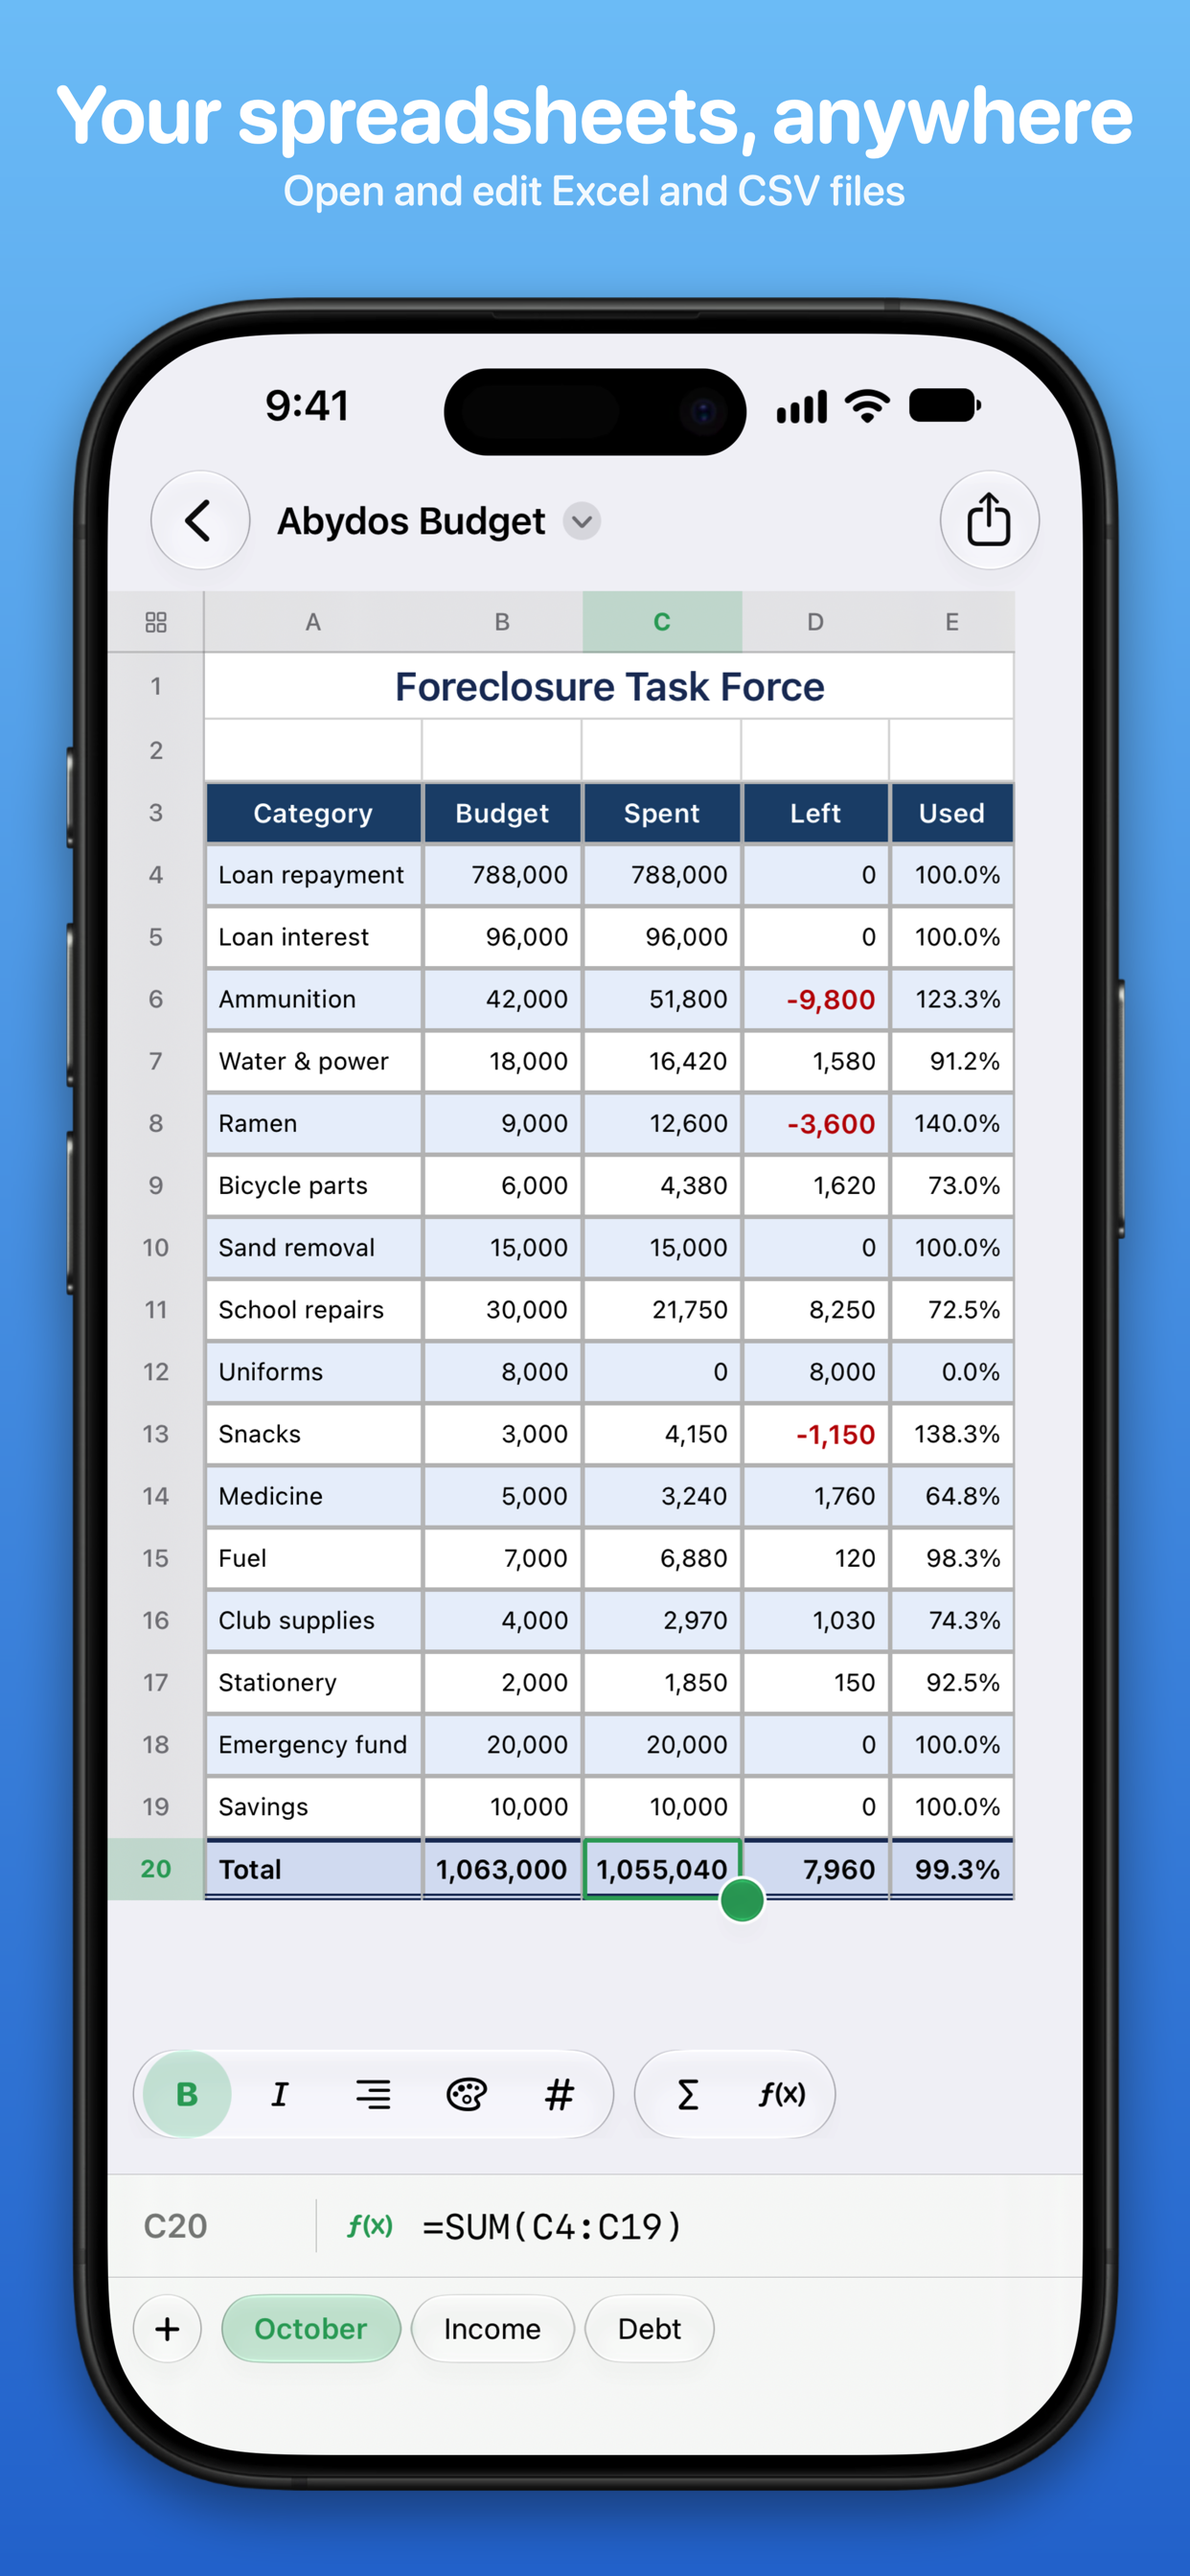
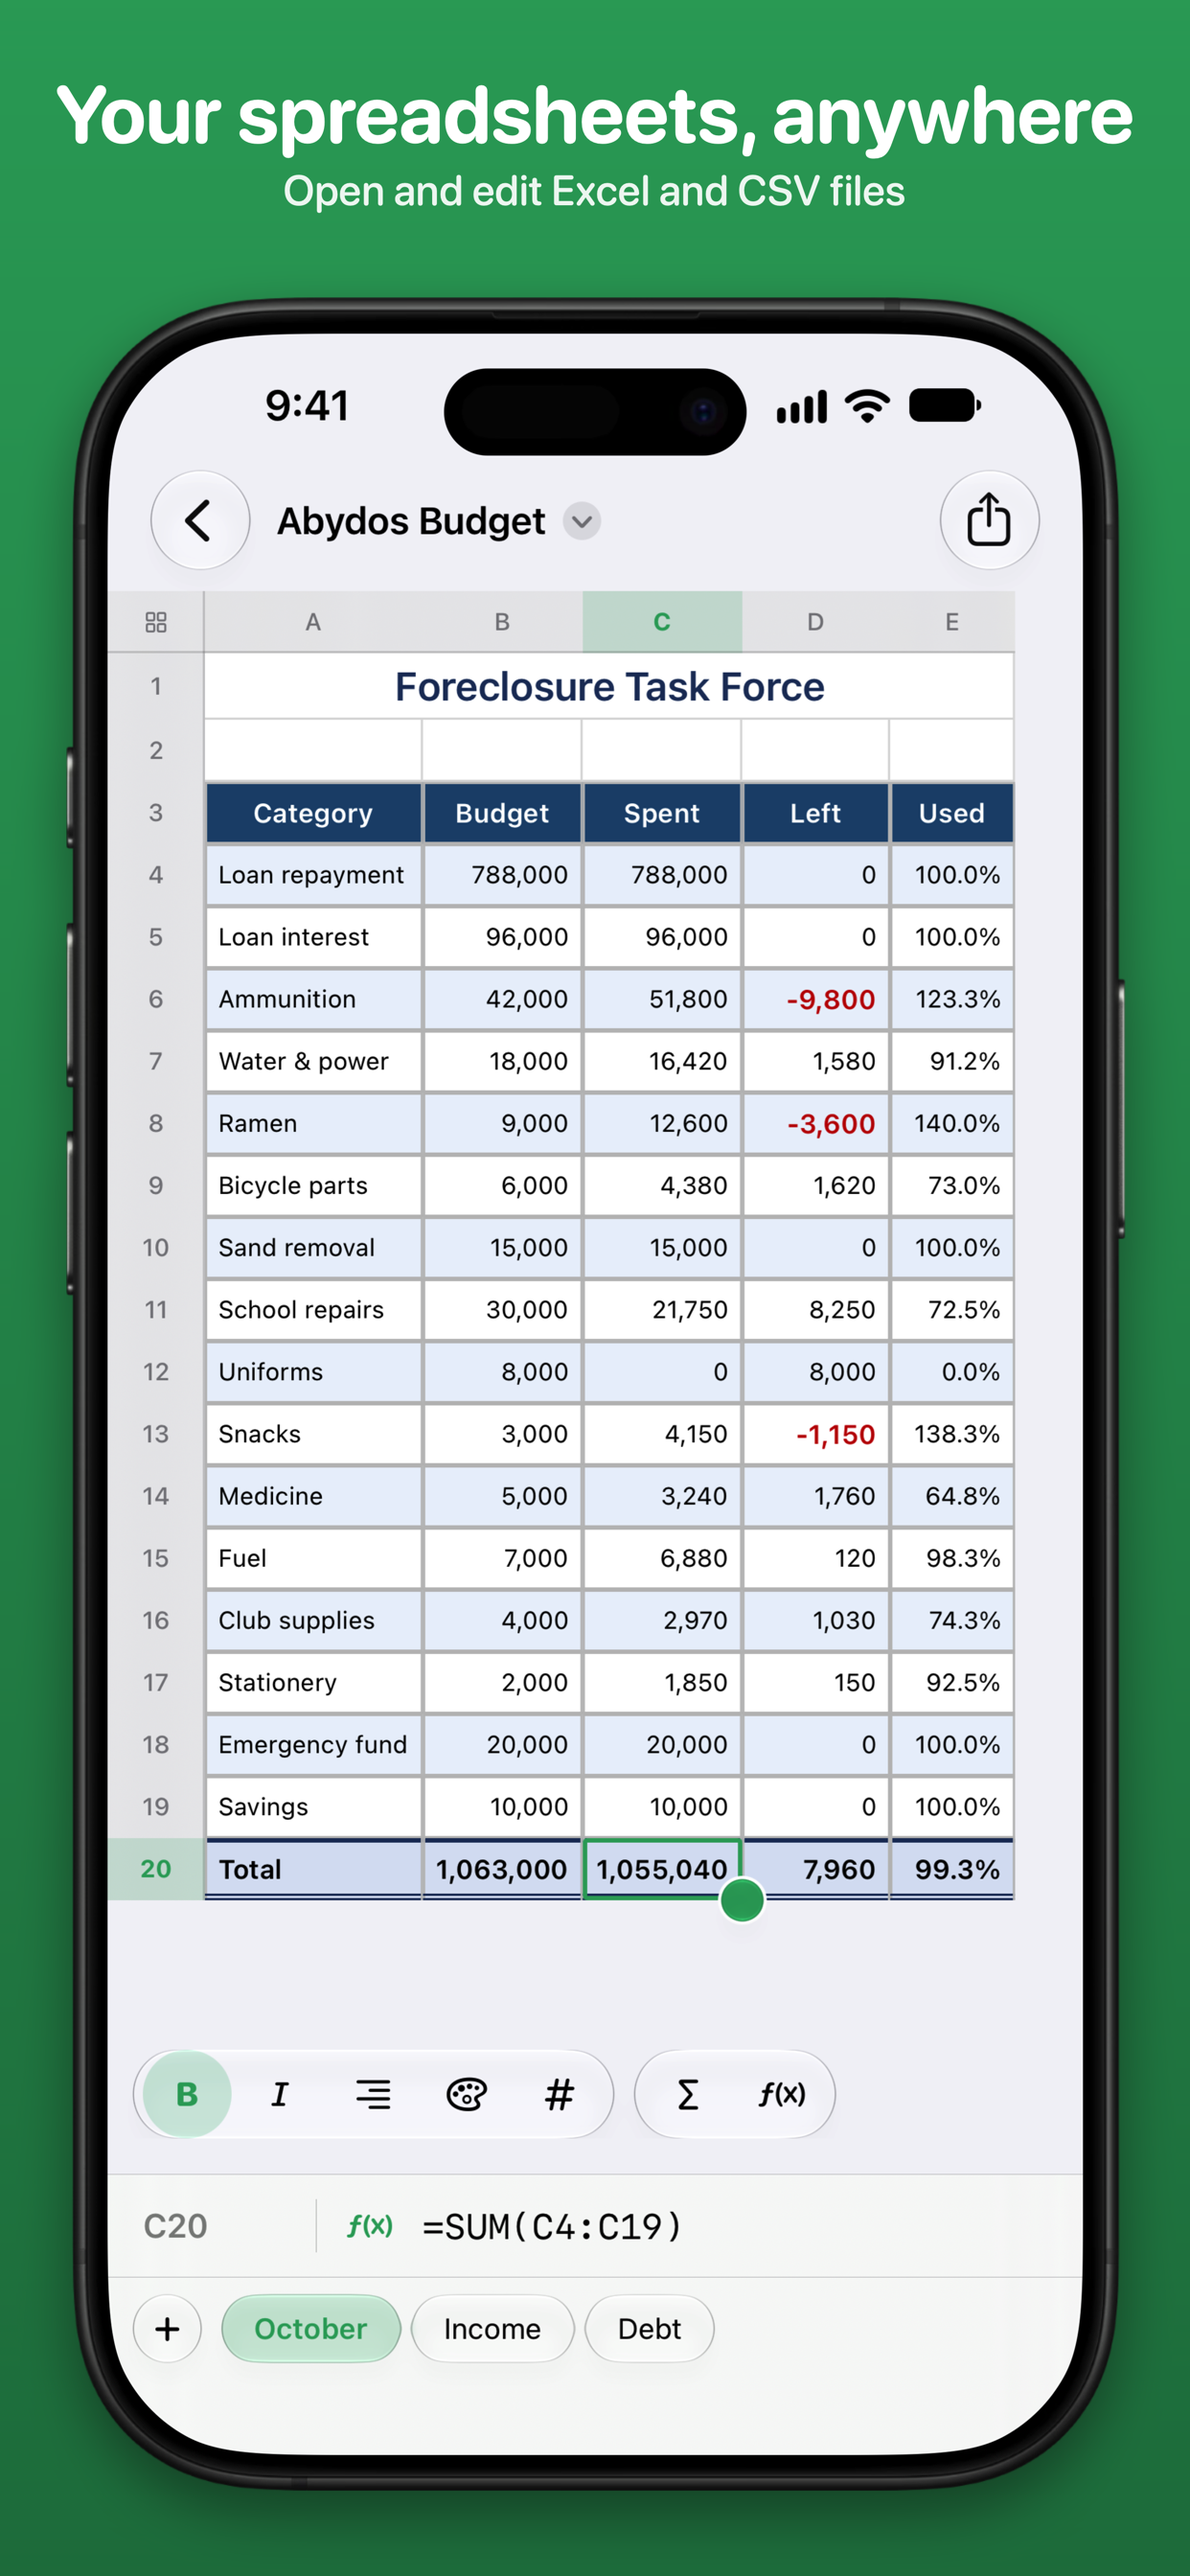
Use only the app accent green for the App Store screenshot backgrounds

Changed region(s): [[0.0, 0.0, 1.0, 1.0]]

diff --git a/Assets/App Store/compose.swift b/Assets/App Store/compose.swift
@@ -40,8 +40,6 @@ struct Screenshot {
     let name: String
     /// Keyed by language code. A language without copy is skipped.
     let copy: [String: Copy]
-    let gradientTop: NSColor
-    let gradientBottom: NSColor
 }
 
 func color(_ hex: UInt32) -> NSColor {
@@ -53,10 +51,10 @@ func color(_ hex: UInt32) -> NSColor {
     )
 }
 
-// The Tables green, the Kivotos sky, and the deep blue of the sheet headers.
-let green = (color(0x4CC38A), color(0x1B7A4E))
-let sky = (color(0x7CC8F8), color(0x2A78D4))
-let navy = (color(0x4F6FB5), color(0x1F3864))
+// The app's accent green, deepening toward the bottom.
+let accent = color(0x2EA666)
+let gradientTop = accent
+let gradientBottom = accent.blended(withFraction: 0.3, of: .black)!
 
 let functionsCopy = [
     "en": Copy(header: "Over 100 functions", caption: "SUMIFS, XLOOKUP, and results as you type"),
@@ -81,13 +79,12 @@ let iPhoneScreenshots = [
         copy: [
             "en": Copy(header: "Your spreadsheets, anywhere", caption: "Open and edit Excel and CSV files"),
             "ja": Copy(header: "表計算を、どこでも", caption: "ExcelやCSVをそのまま開いて編集"),
-        ],
-        gradientTop: sky.0, gradientBottom: sky.1
+        ]
     ),
-    Screenshot(name: "02-functions", copy: functionsCopy, gradientTop: green.0, gradientBottom: green.1),
-    Screenshot(name: "03-format", copy: formatCopy, gradientTop: navy.0, gradientBottom: navy.1),
-    Screenshot(name: "04-number-format", copy: numberFormatCopy, gradientTop: sky.0, gradientBottom: sky.1),
-    Screenshot(name: "05-dark", copy: darkCopy, gradientTop: navy.0, gradientBottom: navy.1),
+    Screenshot(name: "02-functions", copy: functionsCopy),
+    Screenshot(name: "03-format", copy: formatCopy),
+    Screenshot(name: "04-number-format", copy: numberFormatCopy),
+    Screenshot(name: "05-dark", copy: darkCopy),
 ]
 
 let iPadScreenshots = [
@@ -96,21 +93,19 @@ let iPadScreenshots = [
         copy: [
             "en": Copy(header: "Big sheets, on a big screen", caption: "A whole year of figures at a glance"),
             "ja": Copy(header: "大きな画面で、大きな表を", caption: "1年分の数字をひと目で"),
-        ],
-        gradientTop: sky.0, gradientBottom: sky.1
+        ]
     ),
     Screenshot(
         name: "02-clubs",
         copy: [
             "en": Copy(header: "Formulas that keep up", caption: "Totals recalculate the moment you type"),
             "ja": Copy(header: "数式がすぐに反映", caption: "入力したそばから合計を再計算"),
-        ],
-        gradientTop: green.0, gradientBottom: green.1
+        ]
     ),
-    Screenshot(name: "03-functions", copy: functionsCopy, gradientTop: navy.0, gradientBottom: navy.1),
-    Screenshot(name: "04-format", copy: formatCopy, gradientTop: sky.0, gradientBottom: sky.1),
-    Screenshot(name: "05-number-format", copy: numberFormatCopy, gradientTop: green.0, gradientBottom: green.1),
-    Screenshot(name: "06-dark", copy: darkCopy, gradientTop: navy.0, gradientBottom: navy.1),
+    Screenshot(name: "03-functions", copy: functionsCopy),
+    Screenshot(name: "04-format", copy: formatCopy),
+    Screenshot(name: "05-number-format", copy: numberFormatCopy),
+    Screenshot(name: "06-dark", copy: darkCopy),
 ]
 
 // MARK: - Text
@@ -300,7 +295,7 @@ func compose(_ shot: Screenshot, language: String, device: Device) -> Bool {
     let image = NSImage(size: canvasSize)
     image.lockFocus()
 
-    NSGradient(starting: shot.gradientTop, ending: shot.gradientBottom)?
+    NSGradient(starting: gradientTop, ending: gradientBottom)?
         .draw(in: NSRect(origin: .zero, size: canvasSize), angle: -90)
 
     // One-line header and caption. AppKit's origin is bottom-left.
